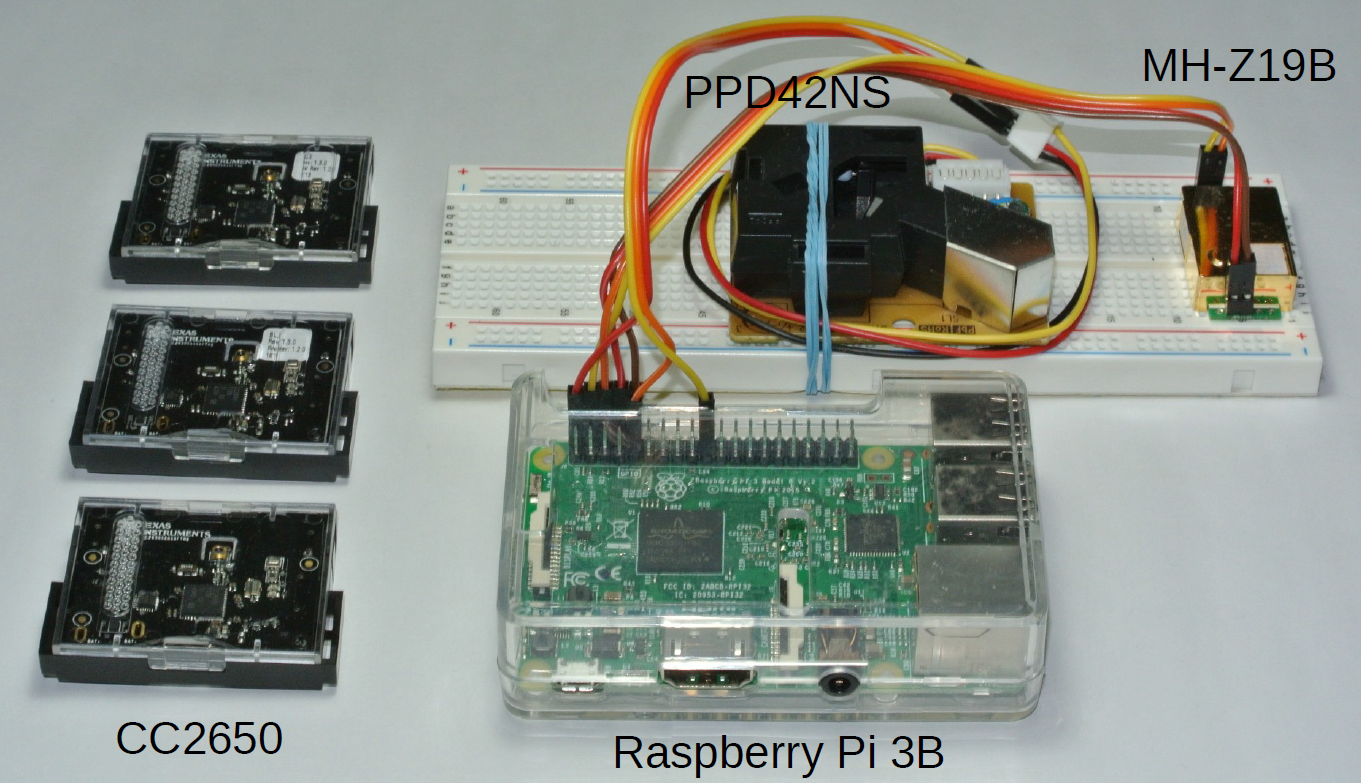
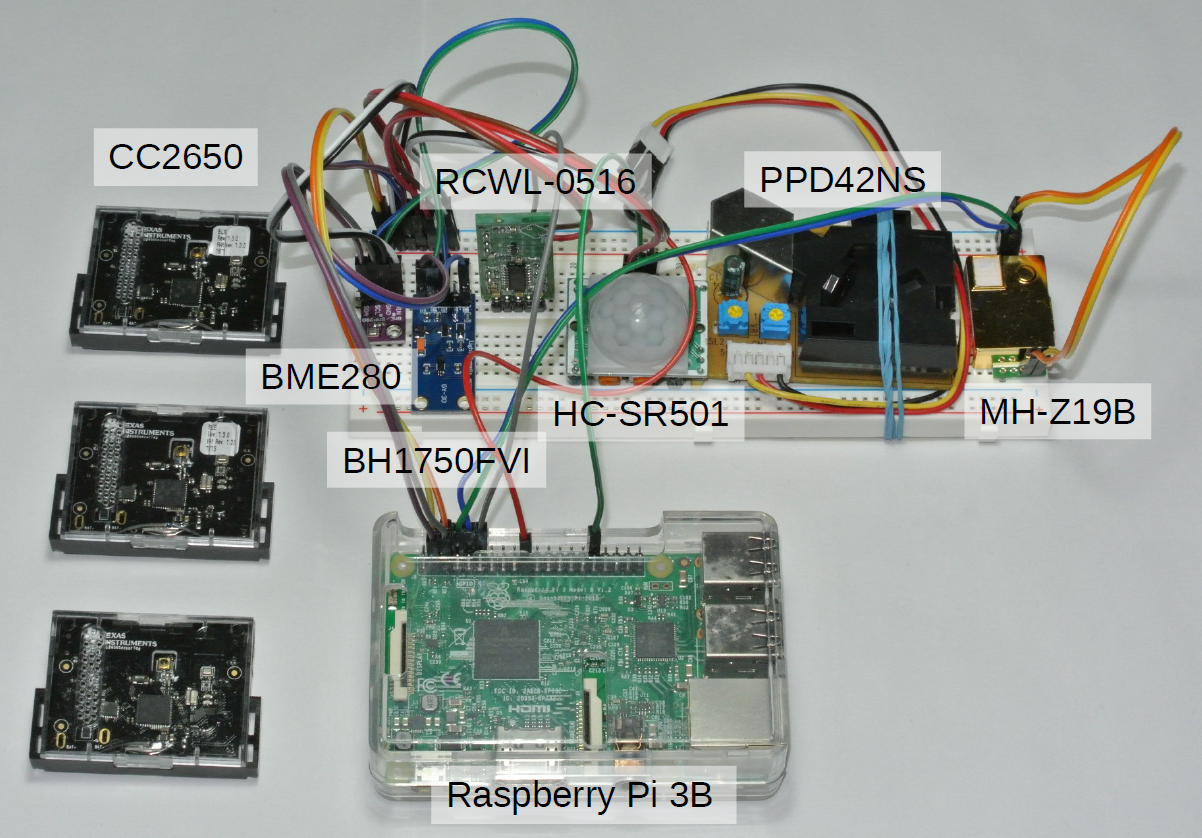
Update README.md.

diff --git a/README.md b/README.md
@@ -1,9 +1,30 @@
 # rainy - a tiny tool for iot data collection and monitoring
-rainy is a tiny tool for IoT data collection and monitoring.
-rainy supports [TI SensorTag CC2650](http://processors.wiki.ti.com/index.php/CC2650_SensorTag_User's_Guide), [MH-Z19B](https://www.winsen-sensor.com/d/files/infrared-gas-sensor/mh-z19b-co2-ver1_0.pdf), [PPD42NS](http://wiki.seeedstudio.com/Grove-Dust_Sensor/), [RCWL-0516](https://github.com/s5uishida/rcwl-0516-driver) and [HC-SR501](https://github.com/s5uishida/hc-sr501-driver) as IoT devices, communicates with CC2650 by [bluez-dbus](https://github.com/hypfvieh/bluez-dbus), and communicates with MH-Z19B by [jSerialComm](https://github.com/Fazecast/jSerialComm),
-and communicates with PPD42NS/RCWL-0516/HC-SR501 by [Pi4J](https://pi4j.com/) and acquires each data.
-And it corresponds to OPC-UA which is a protocol of industrial automation.
-I use [Eclipse Milo](https://github.com/eclipse/milo) for the OPC-UA Protocol Stack and SDK (Java).
+rainy is a tiny tool for IoT data collection and monitoring, and supports the following devices and protocols:  
+- [TI SensorTag CC2650](http://processors.wiki.ti.com/index.php/CC2650_SensorTag_User's_Guide) - [java driver](https://github.com/s5uishida/cc2650-driver) by [bluez-dbus](https://github.com/hypfvieh/bluez-dbus)
+  - IR Temperature (Object / Ambience)
+  - Relative humidity
+  - Barometric pressure
+  - Optical
+  - Movement (Gyroscope / Accelerometer / Magnetometer)
+- [BME280](http://static.cactus.io/docs/sensors/barometric/bme280/BST-BME280_DS001-10.pdf) - [java driver](https://github.com/s5uishida/bme280-driver) by [Pi4J](https://pi4j.com/)
+  - Temperature
+  - Relative humidity
+  - Barometric pressure  
+  **If you do not have CC2650, you can substitute these sensors with BME280.**
+- [BH1750FVI](https://www.mouser.com/datasheet/2/348/bh1750fvi-e-186247.pdf) - [java driver](https://github.com/s5uishida/bh1750fvi-driver) by [Pi4J](https://pi4j.com/)  
+  Optical  
+  **If you do not have CC2650, you can substitute this sensor with BH1750FVI.**
+- [MH-Z19B](https://www.winsen-sensor.com/d/files/infrared-gas-sensor/mh-z19b-co2-ver1_0.pdf) - [java driver](https://github.com/s5uishida/mh-z19b-driver) by [jSerialComm](https://github.com/Fazecast/jSerialComm)  
+  CO2 concentration
+- [PPD42NS](http://wiki.seeedstudio.com/Grove-Dust_Sensor/) - [java driver](https://github.com/s5uishida/ppd42ns-driver) by [Pi4J](https://pi4j.com/)  
+  Dust concentration
+- [RCWL-0516](https://www.epitran.it/ebayDrive/datasheet/19.pdf) - [java driver](https://github.com/s5uishida/rcwl-0516-driver) by [Pi4J](https://pi4j.com/)  
+  Motion detector (Microwave)
+- [HC-SR501](https://www.mpja.com/download/31227sc.pdf) - [java driver](https://github.com/s5uishida/hc-sr501-driver) by [Pi4J](https://pi4j.com/)  
+  Motion detector (PIR)
+- [OPC-UA](https://opcfoundation.org/developer-tools/specifications-unified-architecture) - [java driver](https://github.com/s5uishida/rainy-opcua) by [Eclipse Milo](https://github.com/eclipse/milo)  
+  Protocol of industrial automation
+
 These data can be sent to [InfluxDB](https://www.influxdata.com/) (Time Series Database) for visualization, or sent to MQTT Broker to be used as a data source for any other purposes.
 
 rainy runs on [Apache Felix](https://felix.apache.org/) (OSGi). I think that rainy can be embedded in the environment without OSGi.
@@ -18,16 +39,13 @@ The following figure is overview of rainy.
 <img src="./images/rainy_overview_0.png" title="./images/rainy_overview_0.png" width=800px></img>
 
 The following figure is overview which the monitoring is running together with rainy on same Raspberry Pi 3B.
+I checked easily that it also works with Raspberry Pi 4B.
 
 <img src="./images/rainy_overview_2.png" title="./images/rainy_overview_2.png" width=800px></img>
 
 The following image shows the hardware configuration.
 
-<img src="./images/rainy_hardware_1_1.png" title="./images/rainy_hardware_1_1.png" width=600px></img>
-
-The image of the hardware configuration when using a USB serial adapter for MH-Z19B is as follows.
-
-<img src="./images/rainy_hardware_0_1.png" title="./images/rainy_hardware_0_1.png" width=600px></img>
+<img src="./images/rainy_hardware_1.png" title="./images/rainy_hardware_1_1.png" width=700px></img>
 
 ---
 <h2>Table of Contents</h2>
@@ -52,6 +70,8 @@ The image of the hardware configuration when using a USB serial adapter for MH-Z
     - [MQTT - mqtt.properties](#mqtt_properties)
   - [Setting sensors and protocols](#setting_sensors)
     - [CC2650 - cc2650.properties](#cc2650_properties)
+    - [BME280 - bme280.properties](#bme280_properties)
+    - [BH1750FVI - bh1750fvi.properties](#bh1750fvi_properties)
     - [MH-Z19B - mhz19b.properties](#mhz19b_properties)
     - [PPD42NS - ppd42ns.properties](#ppd42ns_properties)
     - [RCWL-0516 - rcwl0516.properties](#rcwl0516_properties)
@@ -79,13 +99,16 @@ The purpose of this tool is briefly as follows.
 - Real-time monitoring and convert these information to MQTT as a data source for any other purposes.
 - Runs as Java / OSGi application on Raspberry Pi 3B (arm) and Ubuntu machine (amd64).
 
+The concept is as follows.
+
+<img src="./images/rainy_concept_0.png" title="./images/rainy_concept_0.png" width=700px></img>
+
 Although I think the functionality and performance of this tool are not sufficient for formal operation, it may be an easy-to-try tool.
 
 <h2 id="setup_os">Setup OS</h2>
 
-Please refer to [here1](https://github.com/s5uishida/mh-z19b-driver) and
-[here2](https://github.com/s5uishida/ppd42ns-driver) for setting RaspberryPi 3B as an environment for running rainy.
-Both Bluetooth and serial communication / GPIO can be enabled.
+Please refer to [here](https://github.com/s5uishida/bme280-driver) for setting RaspberryPi 3B as an environment for running rainy.
+Both Bluetooth, serial communication, GPIO and I2C can be enabled.
 
 <h2 id="setup_sending_data">Setup sending data</h2>
 
@@ -232,9 +255,13 @@ TLS_PRIVATE_KEY=/etc/rainy/cert.key
 - **`clientID`**  
   Set a unique client identifier for running rainy.
 - **`cc2650`**  
-  Set to `true` when using CC2650. default is `false`.
+  Set to `true` when using CC2650. default is `false`.  
+- **`bme280`**  
+  Set to `true` when using BME280. default is `false`.  
+- **`bh1750fvi`**  
+  Set to `true` when using BH1750FVI. default is `false`.  
 - **`mhz19b`**  
-  Set to `true` when using MH-Z19B. default is `false`.
+  Set to `true` when using MH-Z19B. default is `false`.  
 - **`ppd42ns`**  
   Set to `true` when using PPD42NS. default is `false`.  
 - **`rcwl0516`**  
@@ -244,7 +271,7 @@ TLS_PRIVATE_KEY=/etc/rainy/cert.key
 - **`opcua`**  
   Set to `true` when using OPC-UA. default is `false`.
 
-**Note. This tool uses Pi4J for PPD42NS/RCWL-0516/HC-SR501, so PPD42NS/RCWL-0516/HC-SR501 can only be used with Raspberry Pi series (arm). Therefore, their feature of this tool does not work on amd64 Linux machines, so set them to `false` on amd64 Linux machines.**  
+**Note. This tool uses Pi4J for BME280/BH1750FVI/PPD42NS/RCWL-0516/HC-SR501, so these devices can only be used with Raspberry Pi series (arm). Therefore, their feature of this tool does not work on amd64 Linux machines, so set them to `false` on amd64 Linux machines.**  
 
 <h3 id="setting_connection_sending_data">Setting the connection for sending data</h3>
   
@@ -346,6 +373,48 @@ B0:B4:48:B9:92:86 (unknown)
 B0:B4:48:B9:92:86 CC2650 SensorTag
 ```
 After launching `hcitool` command, press the power button of CC2650 and the scan results will be displayed as above.
+
+<h4 id="bme280_properties">BME280 - bme280.properties</h4>
+
+[Here](https://github.com/s5uishida/bme280-driver) is also helpful.
+
+- **`i2cBusAddress`**  
+  Set the I2C bus number and address. default is `1:76`.
+- **`influxDB`**  
+  Set to `true` when sending data to InfluxDB. default is `false`.
+- **`mqtt`**  
+  Set to `true` when sending data to MQTT broker. default is `false`.
+- `prettyPrinting`  
+  Set to `true` when indenting the log output of JSON format data. default is `false`.
+  It is also necessary to change the following log level of `conf/logging.properties`.  
+  ```
+  #io.github.s5uishida.level=INFO
+  -->
+  io.github.s5uishida.level=FINE
+  ```
+- `readCrontab`  
+  Set the schedule for sensing data in crontab format. default is every minute.
+
+<h4 id="bh1750fvi_properties">BH1750FVI - bh1750fvi.properties</h4>
+
+[Here](https://github.com/s5uishida/bh1750fvi-driver) is also helpful.
+
+- **`i2cBusAddress`**  
+  Set the I2C bus number and address. default is `1:23`.
+- **`influxDB`**  
+  Set to `true` when sending data to InfluxDB. default is `false`.
+- **`mqtt`**  
+  Set to `true` when sending data to MQTT broker. default is `false`.
+- `prettyPrinting`  
+  Set to `true` when indenting the log output of JSON format data. default is `false`.
+  It is also necessary to change the following log level of `conf/logging.properties`.  
+  ```
+  #io.github.s5uishida.level=INFO
+  -->
+  io.github.s5uishida.level=FINE
+  ```
+- `readCrontab`  
+  Set the schedule for sensing data in crontab format. default is every minute.
 
 <h4 id="mhz19b_properties">MH-Z19B - mhz19b.properties</h4>
 
@@ -508,68 +577,65 @@ For reference, there is [toem impulse OPC/UA Extension (Eclipse pulug-in)](https
 ```
 # cd /path/to/rainy-felix/bin
 # sh rainy-start.sh
-WARNING: An illegal reflective access operation has occurred
-WARNING: Illegal reflective access by org.apache.felix.framework.ext.ClassPathExtenderFactory$DefaultClassLoaderExtender (file:/path/to/rainy-felix/bin/felix.jar) to method java.net.URLClassLoader.addURL(java.net.URL)
-WARNING: Please consider reporting this to the maintainers of org.apache.felix.framework.ext.ClassPathExtenderFactory$DefaultClassLoaderExtender
-WARNING: Use --illegal-access=warn to enable warnings of further illegal reflective access operations
-WARNING: All illegal access operations will be denied in a future release
 -> ps
 START LEVEL 1
    ID   State         Level  Name
 [   0] [Active     ] [    0] System Bundle (6.0.3)
 [   1] [Active     ] [    1] bcpkix (1.62)
 [   2] [Active     ] [    1] bcprov (1.62)
-[   3] [Active     ] [    1] bluetooth scanner (0.1.4)
-[   4] [Active     ] [    1] bluez-dbus-osgi (0.1.2.201911022022)
-[   5] [Active     ] [    1] bsd-parser-core (0.3.4)
-[   6] [Active     ] [    1] bsd-parser-gson (0.3.4)
-[   7] [Active     ] [    1] java driver for ti sensortag cc2650 (0.1.2)
-[   8] [Active     ] [    1] Apache Commons Lang (3.9.0)
-[   9] [Active     ] [    1] cron4j-osgi (2.2.5)
-[  10] [Active     ] [    1] dbus-java-osgi (3.2.1.SNAPSHOT)
-[  11] [Active     ] [    1] Gson (2.8.5)
-[  12] [Active     ] [    1] Guava: Google Core Libraries for Java (26.0.0.jre)
-[  13] [Active     ] [    1] java driver for hc-sr501 - pir motion detector sensor module (0.1.1)
-[  14] [Active     ] [    1] Java client for InfluxDB (2.15)
-[  15] [Active     ] [    1] jSerialComm (2.5.1)
-[  16] [Active     ] [    1] Jackson-annotations (2.9.9)
-[  17] [Active     ] [    1] Jackson-core (2.9.9)
-[  18] [Active     ] [    1] jackson-databind (2.9.9.1)
-[  19] [Active     ] [    1] JavaBeans Activation Framework (1.2.0)
-[  20] [Active     ] [    1] jaxb-api (2.3.1)
-[  21] [Active     ] [    1] file:/home/pi/rainy-felix/bundle/jaxb-runtime-2.3.2.jar
-[  22] [Active     ] [    1] java driver for mh-z19b - intelligent infrared co2 module (0.1.2)
-[  23] [Active     ] [    1] A modern JSON library for Kotlin and Java (1.7.0)
-[  24] [Active     ] [    1] MessagePack serializer implementation for Java (0.8.17)
-[  25] [Active     ] [    1] Netty/Buffer (4.1.38.Final)
-[  26] [Active     ] [    1] netty-channel-fsm-osgi (0.3.0)
-[  27] [Active     ] [    1] Netty/Codec (4.1.38.Final)
-[  28] [Active     ] [    1] Netty/Codec/HTTP (4.1.38.Final)
-[  29] [Active     ] [    1] Netty/Common (4.1.38.Final)
-[  30] [Active     ] [    1] Netty/Handler (4.1.38.Final)
-[  31] [Active     ] [    1] Netty/Resolver (4.1.38.Final)
-[  32] [Active     ] [    1] Netty/Transport (4.1.38.Final)
-[  33] [Active     ] [    1] Apache Felix Shell Service (1.4.3)
-[  34] [Active     ] [    1] Apache Felix Shell TUI (1.4.1)
-[  35] [Active     ] [    1] Apache ServiceMix :: Bundles :: jsr305 (3.0.2.1)
-[  36] [Active     ] [    1] Apache ServiceMix :: Bundles :: okhttp (3.14.1.1)
-[  37] [Active     ] [    1] Apache ServiceMix :: Bundles :: okio (1.15.0.1)
-[  38] [Active     ] [    1] Apache ServiceMix :: Bundles :: retrofit (2.5.0.2)
-[  39] [Active     ] [    1] Paho MQTT Client (1.2.1)
-[  40] [Active     ] [    1] OSGi LogService implemented over SLF4J (1.7.26)
-[  41] [Active     ] [    1] Pi4J :: Java Library (Core) (1.2)
-[  42] [Active     ] [    1] java driver for ppd42ns - dust sensor module (0.1.7)
-[  43] [Active     ] [    1] osgi activator of rainy - a tiny tool for iot data collection and monitoring (0.1.7)
-[  44] [Active     ] [    1] OPC-UA bundle of rainy - a tiny tool for iot data collection and monitoring (0.1.5)
-[  45] [Active     ] [    1] rainy - a tiny tool for iot data collection and monitoring (0.1.20)
-[  46] [Active     ] [    1] java driver for rcwl-0516 - microwave presence sensor module (0.1.1)
-[  47] [Active     ] [    1] sdk-client (0.3.4)
-[  48] [Active     ] [    1] sdk-core (0.3.4)
-[  49] [Active     ] [    1] slf4j-api (1.7.26)
-[  50] [Resolved   ] [    1] slf4j-jdk14 (1.7.26)
-[  51] [Active     ] [    1] stack-client (0.3.4)
-[  52] [Active     ] [    1] stack-core (0.3.4)
-[  53] [Active     ] [    1] strict-machine-osgi (0.1.0)
+[   3] [Active     ] [    1] java driver for bh1750fvi - ambient light sensor (0.1.0)
+[   4] [Active     ] [    1] bluetooth scanner (0.1.4)
+[   5] [Active     ] [    1] bluez-dbus-osgi (0.1.2.201911022022)
+[   6] [Active     ] [    1] java driver for bme280 - combined humidity, pressure and temperature sensor (0.1.0)
+[   7] [Active     ] [    1] bsd-parser-core (0.3.4)
+[   8] [Active     ] [    1] bsd-parser-gson (0.3.4)
+[   9] [Active     ] [    1] java driver for ti sensortag cc2650 (0.1.2)
+[  10] [Active     ] [    1] Apache Commons Lang (3.9.0)
+[  11] [Active     ] [    1] cron4j-osgi (2.2.5)
+[  12] [Active     ] [    1] dbus-java-osgi (3.2.1.SNAPSHOT)
+[  13] [Active     ] [    1] Gson (2.8.5)
+[  14] [Active     ] [    1] Guava: Google Core Libraries for Java (26.0.0.jre)
+[  15] [Active     ] [    1] java driver for hc-sr501 - pir motion detector sensor module (0.1.1)
+[  16] [Active     ] [    1] Java client for InfluxDB (2.15)
+[  17] [Active     ] [    1] jSerialComm (2.5.1)
+[  18] [Active     ] [    1] Jackson-annotations (2.9.9)
+[  19] [Active     ] [    1] Jackson-core (2.9.9)
+[  20] [Active     ] [    1] jackson-databind (2.9.9.1)
+[  21] [Active     ] [    1] JavaBeans Activation Framework (1.2.0)
+[  22] [Active     ] [    1] jaxb-api (2.3.1)
+[  23] [Active     ] [    1] file:/home/pi/rainy-felix/bundle/jaxb-runtime-2.3.2.jar
+[  24] [Active     ] [    1] java driver for mh-z19b - intelligent infrared co2 module (0.1.2)
+[  25] [Active     ] [    1] A modern JSON library for Kotlin and Java (1.7.0)
+[  26] [Active     ] [    1] MessagePack serializer implementation for Java (0.8.17)
+[  27] [Active     ] [    1] Netty/Buffer (4.1.38.Final)
+[  28] [Active     ] [    1] netty-channel-fsm-osgi (0.3.0)
+[  29] [Active     ] [    1] Netty/Codec (4.1.38.Final)
+[  30] [Active     ] [    1] Netty/Codec/HTTP (4.1.38.Final)
+[  31] [Active     ] [    1] Netty/Common (4.1.38.Final)
+[  32] [Active     ] [    1] Netty/Handler (4.1.38.Final)
+[  33] [Active     ] [    1] Netty/Resolver (4.1.38.Final)
+[  34] [Active     ] [    1] Netty/Transport (4.1.38.Final)
+[  35] [Active     ] [    1] Apache Felix Shell Service (1.4.3)
+[  36] [Active     ] [    1] Apache Felix Shell TUI (1.4.1)
+[  37] [Active     ] [    1] Apache ServiceMix :: Bundles :: jsr305 (3.0.2.1)
+[  38] [Active     ] [    1] Apache ServiceMix :: Bundles :: okhttp (3.14.1.1)
+[  39] [Active     ] [    1] Apache ServiceMix :: Bundles :: okio (1.15.0.1)
+[  40] [Active     ] [    1] Apache ServiceMix :: Bundles :: retrofit (2.5.0.2)
+[  41] [Active     ] [    1] Paho MQTT Client (1.2.1)
+[  42] [Active     ] [    1] OSGi LogService implemented over SLF4J (1.7.26)
+[  43] [Active     ] [    1] Pi4J :: Java Library (Core) (1.2)
+[  44] [Active     ] [    1] java driver for ppd42ns - dust sensor module (0.1.7)
+[  45] [Active     ] [    1] osgi activator of rainy - a tiny tool for iot data collection and monitoring (0.1.8)
+[  46] [Active     ] [    1] OPC-UA bundle of rainy - a tiny tool for iot data collection and monitoring (0.1.5)
+[  47] [Active     ] [    1] rainy - a tiny tool for iot data collection and monitoring (0.1.21)
+[  48] [Active     ] [    1] java driver for rcwl-0516 - microwave presence sensor module (0.1.1)
+[  49] [Active     ] [    1] sdk-client (0.3.4)
+[  50] [Active     ] [    1] sdk-core (0.3.4)
+[  51] [Active     ] [    1] slf4j-api (1.7.26)
+[  52] [Resolved   ] [    1] slf4j-jdk14 (1.7.26)
+[  53] [Active     ] [    1] stack-client (0.3.4)
+[  54] [Active     ] [    1] stack-core (0.3.4)
+[  55] [Active     ] [    1] strict-machine-osgi (0.1.0)
 -> 
 ```
 
@@ -589,43 +655,51 @@ io.github.s5uishida.level=FINE
 ```
 The sample of the output log is as follows.
 ```
-[/dev/ttyAMA0] co2:850 
-[hci0] B0:B4:48:B9:92:86 obj:28.28125 amb:32.28125 
-[hci0] B0:B4:48:B9:92:86 humidity:59.362793 
-[hci0] B0:B4:48:B9:92:86 pressure:1012.27 
-[hci0] B0:B4:48:B9:92:86 optical:227.28 
-[hci0] B0:B4:48:B9:92:86 gyr[x]:-1.3198851 
-[hci0] B0:B4:48:B9:92:86 gyr[y]:-0.2593994 
-[hci0] B0:B4:48:B9:92:86 gyr[z]:0.7476806 
-[hci0] B0:B4:48:B9:92:86 acc[x]:0.0056152344 
-[hci0] B0:B4:48:B9:92:86 acc[y]:-0.007080078 
-[hci0] B0:B4:48:B9:92:86 acc[z]:0.9707031 
-[hci0] B0:B4:48:B9:92:86 mag[x]:127.0 
-[hci0] B0:B4:48:B9:92:86 mag[y]:420.0 
-[hci0] B0:B4:48:B9:92:86 mag[z]:302.0
-[GPIO_10] pcs:1373.6702 ugm3:2.1420693
+[/dev/ttyAMA0] co2:1110 
+[I2C_1_76] temperature:20.84 
+[I2C_1_76] humidity:52.66211 
+[I2C_1_76] pressure:1012.5222 
+[I2C_1_23] optical:82.5 
+[hci0] B0:B4:48:ED:B6:04 obj:15.8125 amb:21.75 
+[hci0] B0:B4:48:ED:B6:04 humidity:56.78711 
+[hci0] B0:B4:48:ED:B6:04 pressure:1012.96 
+[hci0] B0:B4:48:ED:B6:04 optical:84.84 
+[hci0] B0:B4:48:ED:B6:04 gyr[x]:-8.888245 
+[hci0] B0:B4:48:ED:B6:04 gyr[y]:-7.5759883 
+[hci0] B0:B4:48:ED:B6:04 gyr[z]:-0.06866455 
+[hci0] B0:B4:48:ED:B6:04 acc[x]:0.010375977 
+[hci0] B0:B4:48:ED:B6:04 acc[y]:-0.0040283203 
+[hci0] B0:B4:48:ED:B6:04 acc[z]:0.24835205 
+[hci0] B0:B4:48:ED:B6:04 mag[x]:183.0 
+[hci0] B0:B4:48:ED:B6:04 mag[y]:403.0 
+[hci0] B0:B4:48:ED:B6:04 mag[z]:-192.0 
+[GPIO_10] pcs:4248.701 ugm3:6.6253257
 [GPIO_18] detect:true
-[GPIO_12] detect:true
+[GPIO_19] detect:true
 ```
 In order to reduce writing to the SD card, it is usually recommended to set it to `INFO`.
 
 <h3 id="check_database">Check the database name for each device created in InfluxDB</h3>
 
-Check from the log file `logs/rainy.log.0`. In the following example, databases `RP3B_01__dev_ttyAMA0` for MH-Z19B, `B0_B4_48_B9_92_86` and `B0_B4_48_ED_B6_04` for CC2650, `milo_digitalpetri_com_62541_milo` for Public Demo Server of Eclipse Milo, `RP3B_01_GPIO_10` for PPD42NS, `RP3B_01_GPIO_18` for RCWL-0516 and `RP3B_01_GPIO_12` for HC-SR501 were created. Note that InfluxDB will not do anything if the database already exists.
+Check from the log file `logs/rainy.log.0`. The following is an example. Note that InfluxDB will not do anything if the database already exists.
 ```
-execute - CREATE DATABASE RP3B_01__dev_ttyAMA0
+execute - CREATE DATABASE RP3B_01__dev_ttyAMA0               <-- MH-Z19B
 ...
-execute - CREATE DATABASE B0_B4_48_B9_92_86
+execute - CREATE DATABASE RP3B_01_I2C_1_76                   <-- BME280
 ...
-execute - CREATE DATABASE B0_B4_48_ED_B6_04
+execute - CREATE DATABASE RP3B_01_I2C_1_23                   <-- BH1750FVI
 ...
-execute - CREATE DATABASE milo_digitalpetri_com_62541_milo
+execute - CREATE DATABASE B0_B4_48_B9_92_86                  <-- CC2650
 ...
-execute - CREATE DATABASE RP3B_01_GPIO_10
+execute - CREATE DATABASE B0_B4_48_ED_B6_04                  <-- CC2650
 ...
-execute - CREATE DATABASE RP3B_01_GPIO_18
+execute - CREATE DATABASE milo_digitalpetri_com_62541_milo   <-- Public Demo Server of Eclipse Milo
 ...
-execute - CREATE DATABASE RP3B_01_GPIO_12
+execute - CREATE DATABASE RP3B_01_GPIO_10                    <-- PPD42NS
+...
+execute - CREATE DATABASE RP3B_01_GPIO_18                    <-- RCWL-0516
+...
+execute - CREATE DATABASE RP3B_01_GPIO_19                    <-- HC-SR501
 ```
 These database names are required for the visualization tools Grafana and Chronograf to connect to InfluxDB.
 
@@ -689,21 +763,24 @@ Client mosqsub|2095-u1804 received PUBLISH (d0, q0, r0, m0, 'rainy/B0_B4_48_ED_B
 - Only one Bluetooth adapter can be used.
 - Only a few CC2650 (Bluetooth devices) can be used at the same time. (Restriction of Bluetooth chip)
 - When the connection with CC2650 is lost, it may not recover automatically.
-- This tool uses Pi4J for PPD42NS, so PPD42NS can only be used with Raspberry Pi series (arm). Therefore, the PPD42NS feature of this tool does not work on amd64 Linux machines.
+- This tool uses Pi4J for BME280/BH1750FVI/PPD42NS/RCWL-0516/HC-SR501, so these devices can only be used with Raspberry Pi series (arm). Therefore, the the features of these devices of this tool does not work on amd64 Linux machines.
+- To use Pi4J 1.2's I2C functionality, sun.misc.SharedSecrets.class is required, but this class can only be used up to Java 8 and cannot be used since Java 9. Therefore, Java 8 is required to use BME280 and BH1750FVI.
 - Depending on the combination of the number of monitored items of OPC-UA servers and the publishing interval, the load on InfluxDB may become too large.
 
 <h2 id="bundle_list">Bundle list</h2>
 
 The following bundles I created follow the MIT license.
 - [bluetooth-scanner 0.1.4](https://github.com/s5uishida/bluetooth-scanner)
+- [bme280-driver 0.1.0](https://github.com/s5uishida/bme280-driver)
+- [bh1750fvi-driver 0.1.0](https://github.com/s5uishida/bh1750fvi-driver)
 - [cc2650-driver 0.1.2](https://github.com/s5uishida/cc2650-driver)
 - [mh-z19b-driver 0.1.2](https://github.com/s5uishida/mh-z19b-driver)
 - [ppd42ns-driver 0.1.7](https://github.com/s5uishida/ppd42ns-driver)
 - [rcwl-0516-driver 0.1.1](https://github.com/s5uishida/rcwl-0516-driver)
 - [hc-sr501-driver 0.1.1](https://github.com/s5uishida/hc-sr501-driver)
-- [rainy-activator 0.1.7](https://github.com/s5uishida/rainy-activator)
+- [rainy-activator 0.1.8](https://github.com/s5uishida/rainy-activator)
 - [rainy-opcua 0.1.5](https://github.com/s5uishida/rainy-opcua)
-- [rainy 0.1.20](https://github.com/s5uishida/rainy)
+- [rainy 0.1.21](https://github.com/s5uishida/rainy)
 
 Please check each license for the following bundles used in addition to these.
 - [SLF4J 1.7.26](https://www.slf4j.org/)
